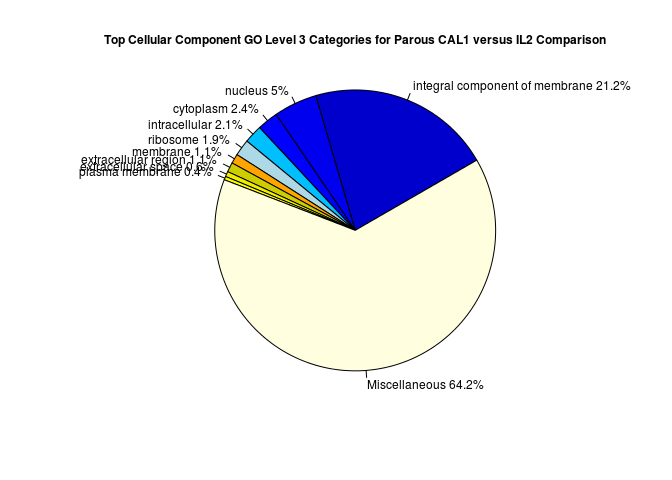
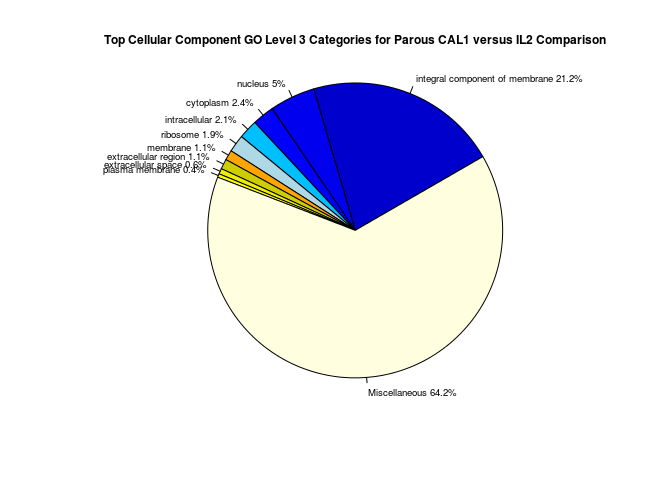
modified chart size, text size for CC GO analysis

diff --git a/Culex_GO_Figs_09072018.md b/Culex_GO_Figs_09072018.md
@@ -138,7 +138,7 @@ grVpip_pie_MF <- pie(Rounded_Percentages_MF$DGC_MF_grVpip, labels =lbls, main = 
 
 ###### "regulation of transcription, DNA-templated" = "reg transcript, DNA-temp"
 
-###### "carbohydrate metabolic process", "carb metabol proc"
+###### "carbohydrate metabolic process" = "carb metabol proc"
 
 ``` r
 lbls <- c(as.character(DGC_BP_grVpa$GO), "Miscellaneous")
@@ -189,7 +189,7 @@ grVpip_pie_BP <- pie(Rounded_Percentages_BP$DGC_BP_grVpip, labels =lbls, main = 
 
 ###### "regulation of transcription, DNA-templated" = "reg transcript, DNA-temp"
 
-###### "carbohydrate metabolic process", "carb metabol proc"
+###### "carbohydrate metabolic process" = "carb metabol proc"
 
 ``` r
 col_schema <- c("blue3", "blue2", "blue", "deepskyblue", "lightblue", "orange", "yellow3", "yellow2", "yellow", "lightyellow")
@@ -198,7 +198,7 @@ lbls <- c(as.character(DGC_CC_grVpa$GO), "Miscellaneous")
 lbls <- gsub("regulation of transcription, DNA-templated", "reg transcript, DNA-temp", lbls)
 lbls <- paste(lbls, Rounded_Percentages_CC$DGC_CC_grVpa) # add percents to labels
 lbls <- paste(lbls,"%",sep="") # ad % to labels 
-grVpa_pie_CC <- pie(Rounded_Percentages_CC$DGC_CC_grVpa, labels =lbls, main = "Top Cellular Component GO Level 3 Categories for Gravid CAL1 versus Parous CAL1 Comparison", radius = 1, cex = 0.75, cex.main = 0.75, tck=.2, init.angle = 30, col= col_schema)
+grVpa_pie_CC <- pie(Rounded_Percentages_CC$DGC_CC_grVpa, labels =lbls, main = "Top Cellular Component GO Level 3 Categories for Gravid CAL1 versus Parous CAL1 Comparison", radius = 1.05, cex = 0.6, cex.main = 0.75, tck=.2, init.angle = 30, col= col_schema)
 ```
 
 ![](Culex_GO_Figs_09072018_files/figure-markdown_github/CC%20GO%20Figs-1.png)
@@ -209,7 +209,7 @@ lbls <- gsub("regulation of transcription, DNA-templated", "reg transcript, DNA-
 lbls <- gsub("carbohydrate metabolic process", "carb metabol proc", lbls)
 lbls <- paste(lbls, Rounded_Percentages_CC$DGC_CC_paVma) 
 lbls <- paste(lbls,"%",sep="") 
-paVma_pie_CC <- pie(Rounded_Percentages_CC$DGC_CC_paVma, labels =lbls, main = "Top Cellular Component GO Level 3 Categories for Parous CAL1 versus Male CAL1 Comparison", radius = 1, cex = 0.75, cex.main = 0.75, tck=.2, init.angle = 30, col= col_schema)
+paVma_pie_CC <- pie(Rounded_Percentages_CC$DGC_CC_paVma, labels =lbls, main = "Top Cellular Component GO Level 3 Categories for Parous CAL1 versus Male CAL1 Comparison", radius = 1.05, cex = 0.6, cex.main = 0.75, tck=.2, init.angle = 30, col= col_schema)
 ```
 
 ![](Culex_GO_Figs_09072018_files/figure-markdown_github/CC%20GO%20Figs-2.png)
@@ -220,7 +220,7 @@ lbls <- gsub("regulation of transcription, DNA-templated", "reg transcript, DNA-
 lbls <- gsub("carbohydrate metabolic process", "carb metabol proc", lbls)
 lbls <- paste(lbls, Rounded_Percentages_CC$DGC_CC_paVpip) 
 lbls <- paste(lbls,"%",sep="") 
-paVpip_pie_CC <- pie(Rounded_Percentages_CC$DGC_CC_paVpip, labels =lbls, main = "Top Cellular Component GO Level 3 Categories for Parous CAL1 versus IL2 Comparison", radius = 1,  cex = 0.75, cex.main = 0.75, tck=.2, init.angle = 30, col= col_schema)
+paVpip_pie_CC <- pie(Rounded_Percentages_CC$DGC_CC_paVpip, labels =lbls, main = "Top Cellular Component GO Level 3 Categories for Parous CAL1 versus IL2 Comparison", radius = 1.05,  cex = 0.6, cex.main = 0.75, tck=.2, init.angle = 30, col= col_schema)
 ```
 
 ![](Culex_GO_Figs_09072018_files/figure-markdown_github/CC%20GO%20Figs-3.png)
@@ -231,7 +231,7 @@ lbls <- gsub("regulation of transcription, DNA-templated", "reg transcript, DNA-
 lbls <- gsub("carbohydrate metabolic process", "carb metabol proc", lbls)
 lbls <- paste(lbls, Rounded_Percentages_CC$DGC_CC_grVpip) 
 lbls <- paste(lbls,"%",sep="") 
-grVpip_pie_CC <- pie(Rounded_Percentages_CC$DGC_CC_grVpip, labels =lbls, main = "Top Cellular Component GO Level 3 Categories for Gravid CAL1 versus IL2 Comparison", radius = 1, cex = 0.75, cex.main = 0.75, tck=.2, init.angle = 30, col= col_schema)
+grVpip_pie_CC <- pie(Rounded_Percentages_CC$DGC_CC_grVpip, labels =lbls, main = "Top Cellular Component GO Level 3 Categories for Gravid CAL1 versus IL2 Comparison", radius = 1.05, cex = 0.6, cex.main = 0.75, tck=.2, init.angle = 30, col= col_schema)
 ```
 
 ![](Culex_GO_Figs_09072018_files/figure-markdown_github/CC%20GO%20Figs-4.png)
